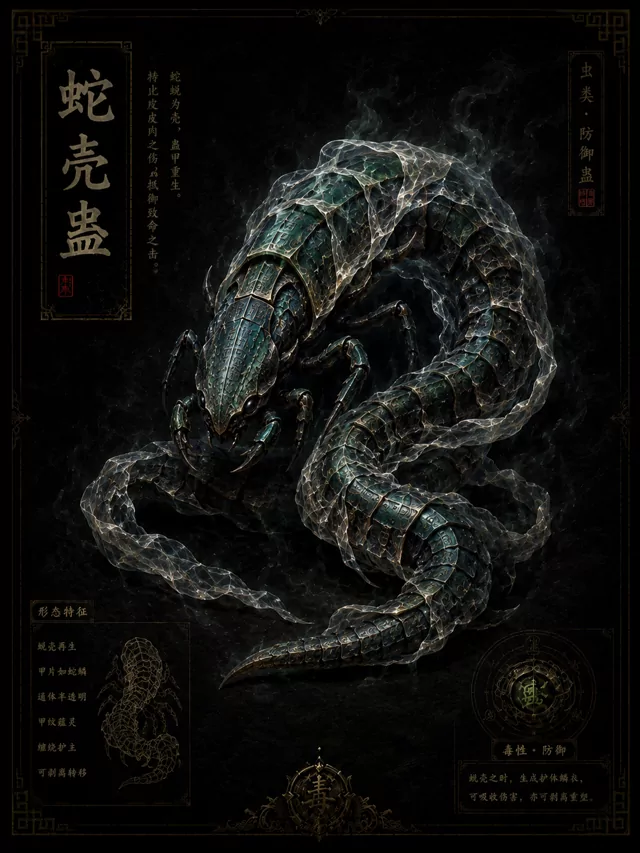
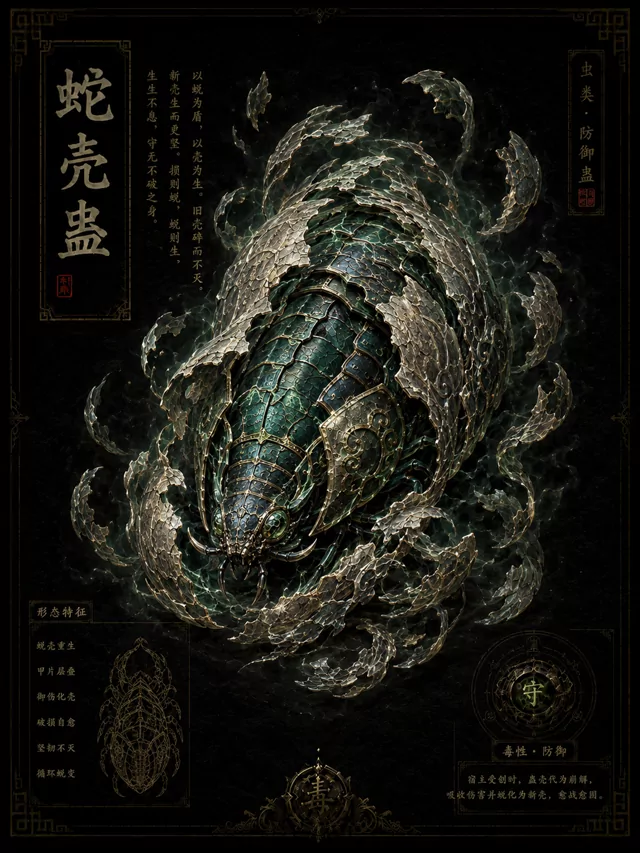
preview: V0.9.5.1 万蛊录分类栏遮挡修复(固定头+内容区独立滚动) + 4战斗蛊立绘入库

diff --git a/preview/index.html b/preview/index.html
@@ -6,11 +6,11 @@
   <meta name="theme-color" content="#0a0d0a">
   <meta name="description" content="原创暗黑东方奇幻卡牌肉鸽原型《逆命蛊途》">
   <title>逆命蛊途 · 命途塔试炼</title>
-  <script>window.__NMG_BUILD__ = "v0.9.5-codex-basic-preview";</script>
-  <link rel="stylesheet" href="style.v0954.css">
-  <script src="audio.v0954.js" defer></script>
-  <script src="gu_catalog.js?v=v0954" defer></script>
-  <script src="game.v0954.js" defer></script>
+  <script>window.__NMG_BUILD__ = "v0.9.5.1-codex-ui-fix-gu-art-preview";</script>
+  <link rel="stylesheet" href="style.v0955.css">
+  <script src="audio.v0955.js" defer></script>
+  <script src="gu_catalog.js?v=v0955" defer></script>
+  <script src="game.v0955.js" defer></script>
   <script>
     if ("serviceWorker" in navigator) {
       navigator.serviceWorker.getRegistrations().then(function (rs) { rs.forEach(function (r) { r.unregister(); }); }).catch(function () {});
@@ -61,7 +61,7 @@
       <span class="start-moon"></span>
     </div>
     <div class="start-content">
-      <p class="start-kicker">原创暗黑东方卡牌肉鸽 · V0.9.5 万蛊录基础版</p>
+      <p class="start-kicker">原创暗黑东方卡牌肉鸽 · V0.9.5.1 万蛊录界面修复+立绘入库</p>
       <div class="start-logo" aria-hidden="true"><span>蛊</span></div>
       <h1 id="startTitle">逆命蛊途</h1>
       <p class="start-subtitle">以蛊为刃，以命为薪。命途塔中，从来没有天命之人。</p>
@@ -517,7 +517,7 @@
       <button id="settingsCloseButton" class="deck-close-button" type="button" aria-label="关闭设置">×</button>
       <p class="deck-eyebrow">试玩包设置</p>
       <h2 id="settingsTitle">设置</h2>
-      <p id="settingsVersion" class="settings-version">当前版本：V0.9.5 万蛊录基础版</p>
+      <p id="settingsVersion" class="settings-version">当前版本：V0.9.5.1 万蛊录界面修复+立绘入库</p>
       <div class="settings-list">
         <button id="settingsMusicToggle" type="button">音乐：开</button>
         <label class="settings-volume" for="settingsVolume">

diff --git a/preview/gu_catalog.js b/preview/gu_catalog.js
@@ -45,7 +45,7 @@ window.GU_CATALOG = [
     habitat: "盘踞古战场尸血浸透的黑土深处。", feeding: "唯饮主血与战场残煞，不食他物。", temperament: "狂而贪，喂之愈急、索之愈狠。",
     evolution: "煞积成形可蜕「血月蛊」，月圆煞涌。", synergy: "与「噬心蛊」「逆血蛊」结血煞循环，越战越凶。", counteredBy: "惧疗血断煞之术；主血枯则蛊自噬反伤。",
     dropsFrom: "绛妄起手蛊囊、血道蛊奖励。", unlockCondition: "蛊囊中曾收容此蛊即录入。",
-    gameplayEffect: "失去 3 点生命，造成 13 + 当前血煞 点伤害，获得 1 层血煞。", image: "",
+    gameplayEffect: "失去 3 点生命，造成 13 + 当前血煞 点伤害，获得 1 层血煞。", image: "assets/codex/gu/bloodblade-gu.webp",
   },
   {
     id: "gu_greenmiasma", category: "gu", cardKey: "greenMiasma",
@@ -75,7 +75,7 @@ window.GU_CATALOG = [
     habitat: "无定所，唯附于气运纠缠、生死交错之人。", feeding: "不食血肉，唯汲主之「命势」而长。", temperament: "灵而傲，势弱则蛰伏，势盛则锋出。",
     evolution: "势数圆融，可与「定数蛊」共结命势循环。", synergy: "攻守交替积势，与「逆途蛊」相济，势满则命线一击加倍利。", counteredBy: "惧夺势断流之扰，命势一散则丝软无力。",
     dropsFrom: "无名逆命者起手蛊囊、命势流蛊奖励。", unlockCondition: "蛊囊中曾收容此蛊即录入。",
-    gameplayEffect: "造成 8 点伤害；命势不少于 2 层时额外造成 6 点伤害。", image: "",
+    gameplayEffect: "造成 8 点伤害；命势不少于 2 层时额外造成 6 点伤害。", image: "assets/codex/gu/fate-thread-gu.webp",
   },
   {
     id: "gu_burningessence", category: "gu", cardKey: "burningEssence",
@@ -105,7 +105,7 @@ window.GU_CATALOG = [
     habitat: "生于血脉逆乱、横死不甘者的残骸。", feeding: "饮逆流之血与翻涌的旧煞。", temperament: "暴烈难驯，喂则索更多，稍纵即反噬。",
     evolution: "逆煞难收，常自行崩解或并入更凶的血道异蛊。", synergy: "与「血刃蛊」「噬心蛊」同囊，煞越厚逆血越猛。", counteredBy: "极耗主血，连出则力竭；惧疗血与速决。",
     dropsFrom: "通用进阶牌池(战后奖励)、血道蛊奖励。", unlockCondition: "蛊囊中曾收容此蛊即录入。",
-    gameplayEffect: "失去 5 点生命，造成 16 + 血煞×2 点伤害，获得 1 层血煞。", image: "",
+    gameplayEffect: "失去 5 点生命，造成 16 + 血煞×2 点伤害，获得 1 层血煞。", image: "assets/codex/gu/reverse-blood-gu.webp",
   },
   {
     id: "gu_shellremnant", category: "gu", cardKey: "shellRemnant",
@@ -115,7 +115,7 @@ window.GU_CATALOG = [
     habitat: "栖于蜕壳堆、败甲废铠的残骸之间。", feeding: "啃食破碎旧甲与蜕壳。", temperament: "倔而韧，受激则盛，安逸则懒。",
     evolution: "可炼为「蜕甲蛊」，弃旧迎新、甲随蜕生。", synergy: "与「铁皮蛊」「蜕壳蛊」叠甲，受创循环愈厚。", counteredBy: "未受创时所得有限；惧蚀甲与破甲连击。",
     dropsFrom: "通用构筑牌(奖励与蛊坊)。", unlockCondition: "蛊囊中曾收容此蛊即录入。",
-    gameplayEffect: "获得 6 点防御；若本回合已受伤，额外获得 6 点防御。", image: "",
+    gameplayEffect: "获得 6 点防御；若本回合已受伤，额外获得 6 点防御。", image: "assets/codex/gu/broken-shell-gu.webp",
   },
   {
     id: "gu_reversepath", category: "gu", cardKey: "reversePath",